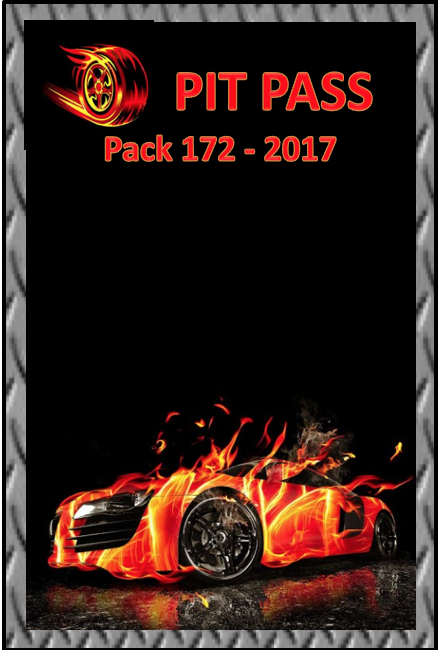
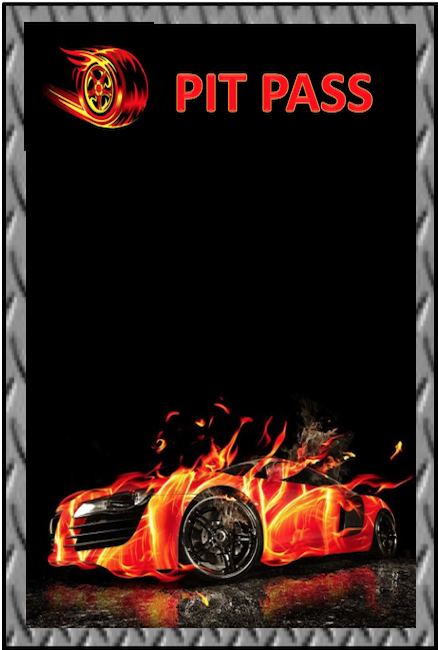
BL: Adding text sections to theme card

diff --git a/client/src/app/themes/themes.component.css b/client/src/app/themes/themes.component.css
@@ -1,3 +1,8 @@
 .theme-card-back { background: url('/assets/themes/ppg-theme-b-2017.png') no-repeat center center; background-size: contain; height: 300px; width: 202px; }
 .theme-card-front { background: url('/assets/themes/ppg-theme-f-2017.png') no-repeat center center; background-size: contain; height: 300px; width: 202px; }
-.theme-profile-pic { display:block; margin:90px auto; max-height:80px; }
+.theme-card-front-text { color: #ff0000; letter-spacing: 1px; text-shadow: -1px 0 1px #db7234, 0 1px 1px #db7234, 1px 0 1px #db7234, 0 -1px 1px #db7234; }
+.theme-card-front-title { margin: 64px auto 10px; text-align: center; }
+.theme-profile-pic { display: block; margin: 0px auto; max-height: 70px; }
+.theme-profile-name { margin: 10px auto 0px; text-align: center; }
+.theme-card-back-text { font-weight: bold; }
+.theme-card-back-title { margin: 30px auto; text-align: center; }

diff --git a/client/src/app/themes/themes.component.html b/client/src/app/themes/themes.component.html
@@ -5,12 +5,21 @@
   <md-card-content>
     <md-grid-list cols="1">
       <md-grid-tile>
-        <div class="theme-card-front">
+        <div class="theme-card-front theme-card-front-text">
+          <div class="theme-card-front-title">
+            Pack 172 - {{ currentDate | date:'yyyy' }}
+          </div>
           <div class="theme-profile">
             <img class="theme-profile-pic" [src]="racer.profilePhotoDataURL" />
           </div>
+          <div class="theme-profile-name">
+            {{racer.firstname}} {{racer.lastname}}
+          </div>
         </div>
-        <div class="theme-card-back">
+        <div class="theme-card-back theme-card-back-text">
+          <div class="theme-card-back-title">
+            Pack 172 Pinewood Derby
+          </div>
         </div>
       </md-grid-tile>
     </md-grid-list>

diff --git a/client/src/app/themes/themes.component.ts b/client/src/app/themes/themes.component.ts
@@ -10,11 +10,13 @@ import { RacerService } from '../racer/racer.service';
 })
 export class ThemesComponent implements OnInit {
   public racer: Racer;
+  public currentDate: Date;
 
   constructor(private racerService: RacerService) { }
 
   ngOnInit() {
     this.racer = this.racerService.racer;
+    this.currentDate = new Date();
   }
 
 }
